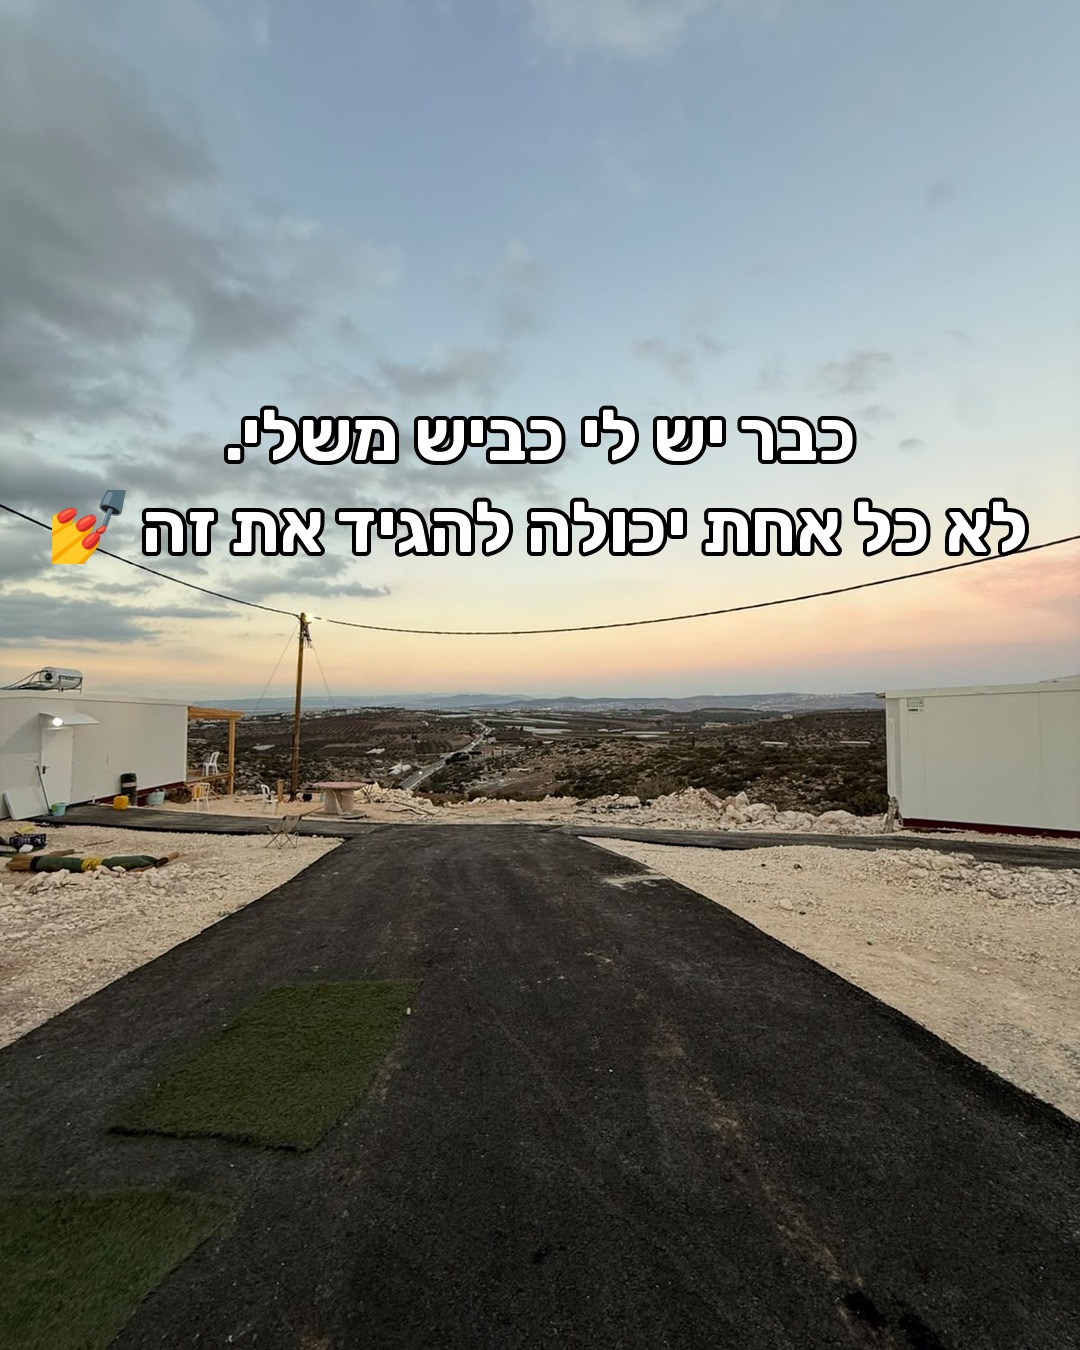
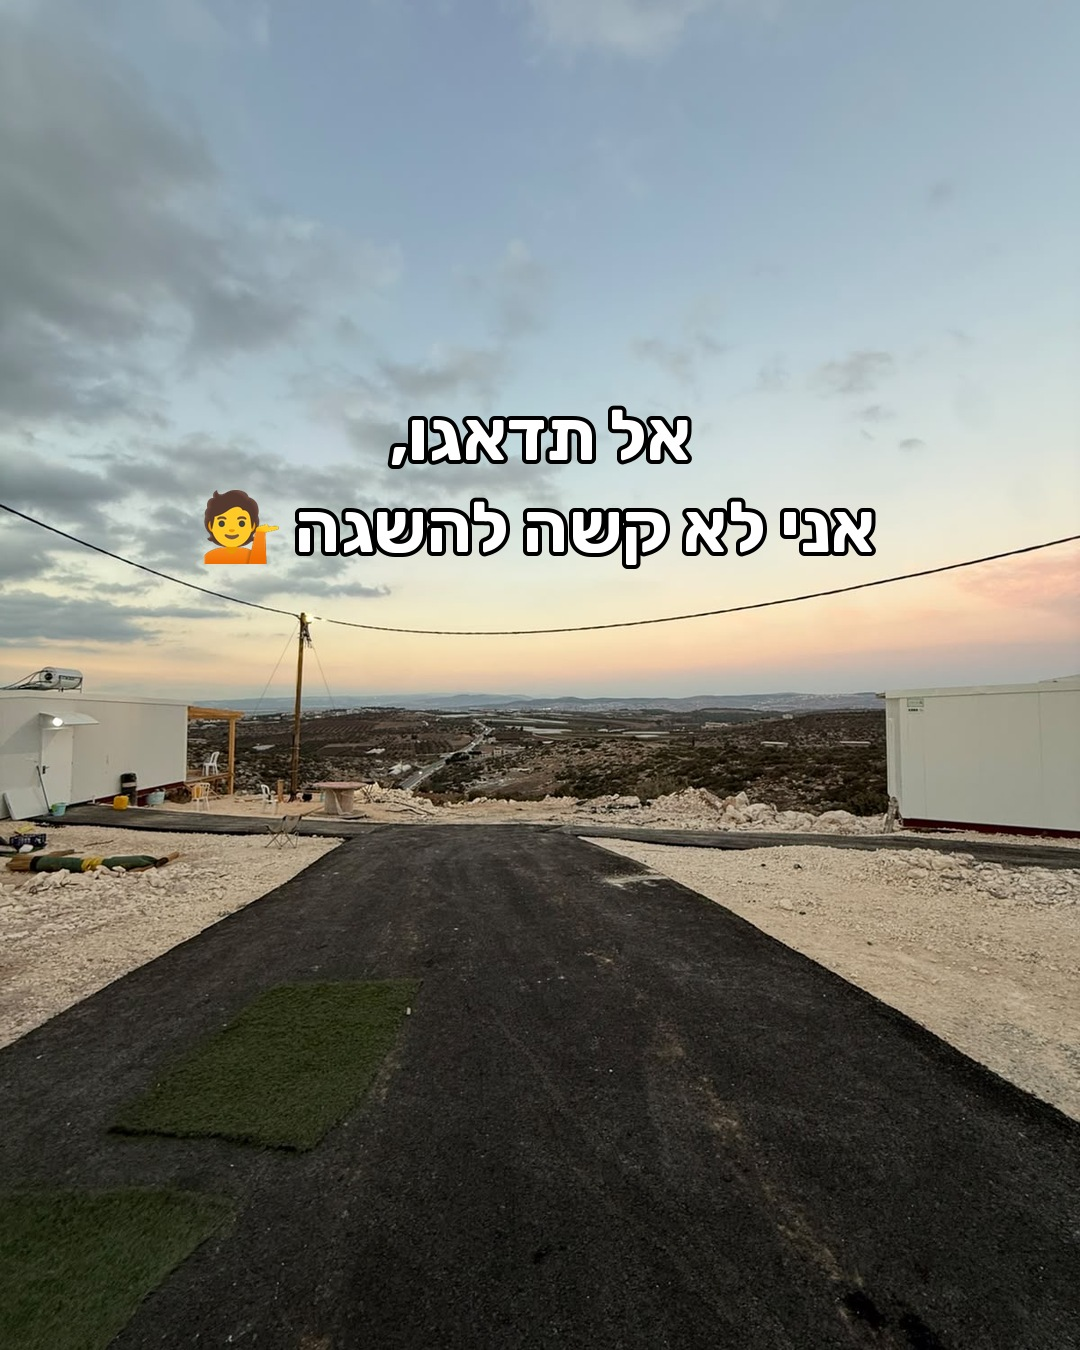
Noa carousel: new road slide text
Claude-Session: https://claude.ai/code/session_01RS3QK6pAd3YhyAuXZSJjH1

Changed region(s): [[0.0306, 0.28, 0.9778, 0.4356]]

diff --git a/content-kit/yesha/2026-11-carousel-noa/make.py b/content-kit/yesha/2026-11-carousel-noa/make.py
@@ -9,7 +9,7 @@ SLIDES = [  # photo, crop box (None=centre), lines [(text, emoji)], y-centre
     ('01.jpg', (320, 0, 1280, 1200), [('היי, אני נעה.', ''), ('נעים להכיר', '🤩')], .42),
     ('02.jpg', None, [('גיל: צעירה מאוד.', ''), ('מבט: ממש רחוק', '☁')], .38),
     ('04.jpg', None, [('מחפשת:', ''), ('משפחות רציניות בלבד', '🇮🇱')], .40),
-    ('07.jpg', None, [('כבר יש לי כביש משלי.', ''), ('לא כל אחת יכולה להגיד את זה', '💅')], .36),
+    ('07.jpg', None, [('אל תדאגו,', ''), ('אני לא קשה להשגה', '💁')], .36),
     ('08.jpg', 'aerial', [('מהזווית הזאת', ''), ('אני הכי פוטוגנית', '📸')], .20),
     ('05.jpg', None, [('יש לי כלב.', ''), ('בעצם… כמה', '🐶')], .30),
     ('09.jpg', None, [('הם מקבלים פה', ''), ('יחס של מלכים', '👑')], .58),
@@ -25,9 +25,9 @@ _ec = {}
 def emoji(e, size):
     k = (e, size)
     if k not in _ec:
-        f = ImageFont.truetype(EMO, 109); parts = []
+        f = ImageFont.truetype(EMO, 109, layout_engine=ImageFont.Layout.RAQM); parts = []
         for ch in [e] if e in ('🇮🇱',) else list(e.replace('', '')):
-            t = Image.new('RGBA', (160, 160), (0, 0, 0, 0)); ImageDraw.Draw(t).text((10, 10), ch if ch != '☁' else '☁', font=f, embedded_color=True)
+            t = Image.new('RGBA', (300, 160), (0, 0, 0, 0)); ImageDraw.Draw(t).text((10, 10), ch if ch != '☁' else '☁', font=f, embedded_color=True)
             t = t.crop(t.getchannel('A').getbbox()); s = size / t.height; parts.append(t.resize((int(t.width * s), size), Image.LANCZOS))
         wsum = sum(p.width for p in parts) + 8 * (len(parts) - 1); out = Image.new('RGBA', (wsum, size), (0, 0, 0, 0)); x = 0
         for p in parts: out.alpha_composite(p, (x, 0)); x += p.width + 8
